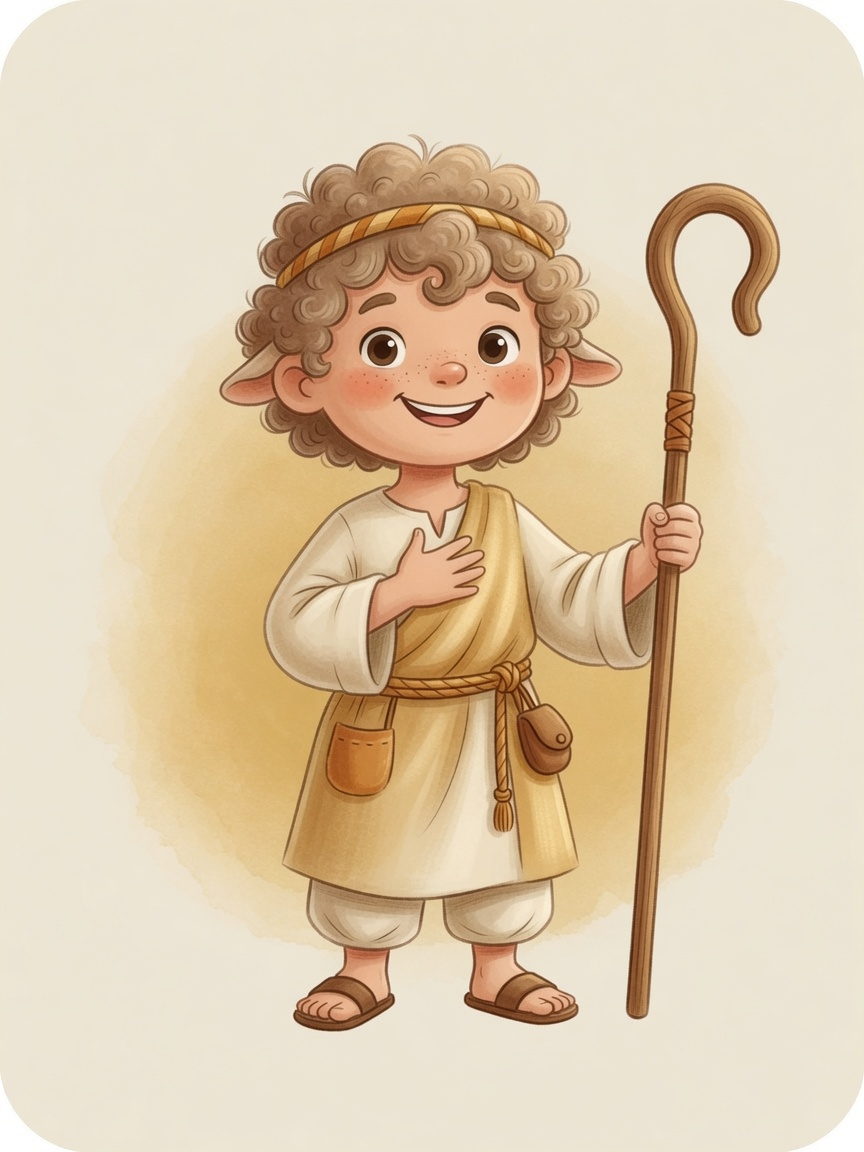
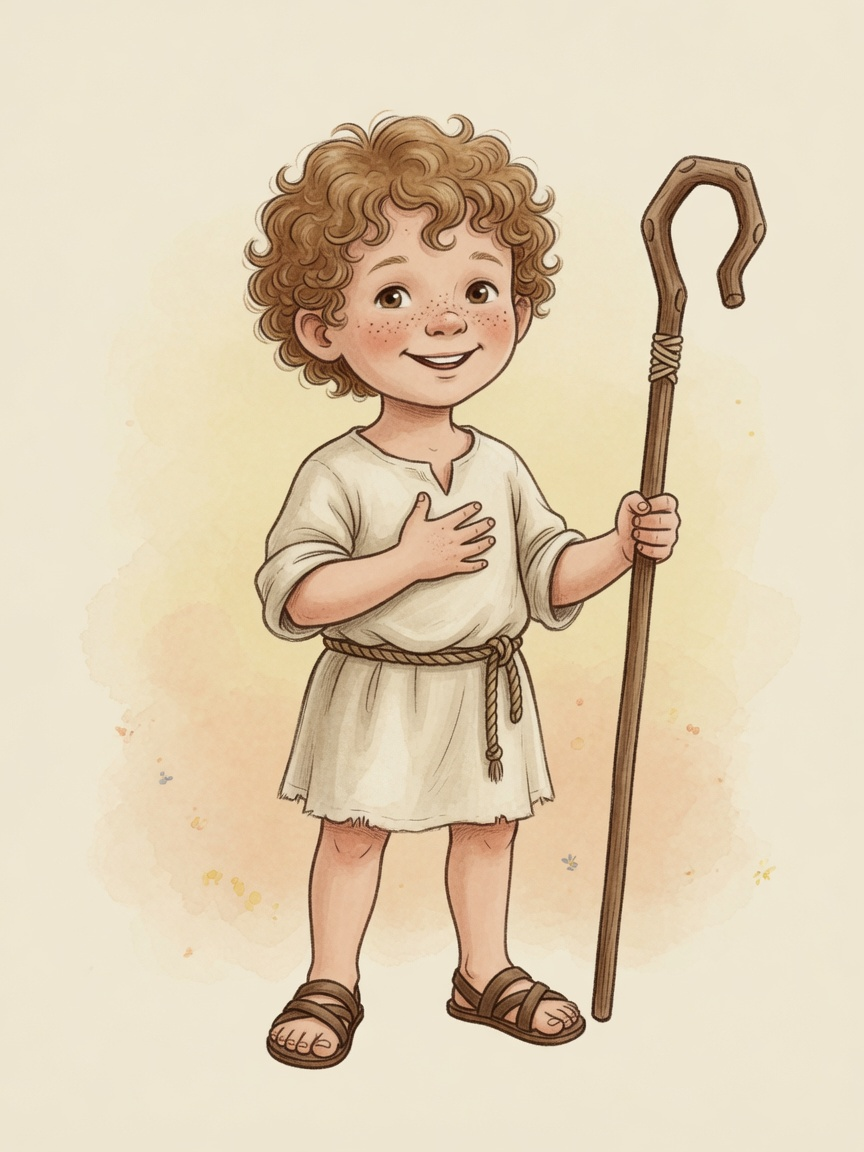
fix(kids): Little Shepherd human ears only — remove sheep ears
Previous illustrated mascot accidentally showed sheep ears plus human
ears. Replace with a clean human-boy character (curly hair, normal ears)
and refresh pose set + cache-bust ?v=20260810ears.

diff --git a/kids/kids-gentle-shepherd.js b/kids/kids-gentle-shepherd.js
@@ -375,21 +375,21 @@
   /* Absolute /kids/ paths so poses resolve from coloring.html, little-ones, and Kids Battle.
    * Premium illustrated PNG set (v20260810) — soft kids-book style, not stick SVGs. */
   var MASCOT_POSES = [
-    { src: '/kids/shepherd-mascot-welcome.png?v=20260810', label: 'Little Shepherd waves hello' },
-    { src: '/kids/shepherd-mascot-point.png?v=20260810', label: 'Little Shepherd points the way' },
-    { src: '/kids/shepherd-mascot-sheep.png?v=20260810', label: 'Little Shepherd with a small sheep' },
-    { src: '/kids/shepherd-mascot-cheer.png?v=20260810', label: 'Little Shepherd cheering for you' },
-    { src: '/kids/shepherd-mascot-sit.png?v=20260810', label: 'Little Shepherd sitting with a little lamb' },
-    { src: '/kids/shepherd-mascot-listen.png?v=20260810', label: 'Little Shepherd listens with you' },
-    { src: '/kids/shepherd-mascot-read.png?v=20260810', label: 'Little Shepherd with Scripture open' },
-    { src: '/kids/shepherd-mascot-pray.png?v=20260810', label: 'Little Shepherd prays with you' },
-    { src: '/kids/shepherd-mascot-proud.png?v=20260810', label: 'Little Shepherd is proud of you' },
-    { src: '/kids/shepherd-mascot-comfort.png?v=20260810', label: 'Little Shepherd is still with you' },
-    { src: '/kids/shepherd-mascot-wonder.png?v=20260810', label: 'Little Shepherd looks up in wonder' },
-    { src: '/kids/shepherd-mascot-laugh.png?v=20260810', label: 'Little Shepherd laughs with you' },
-    { src: '/kids/shepherd-mascot-point-excited.png?v=20260810', label: 'Little Shepherd points to your surprise story' },
-    { src: '/kids/shepherd-mascot-arms-hurray.png?v=20260810', label: 'Little Shepherd celebrates your surprise with quiet joy' },
-    { src: '/kids/shepherd-mascot-clap-soft.png?v=20260810', label: 'Little Shepherd is glad for your surprise pick' }
+    { src: '/kids/shepherd-mascot-welcome.png?v=20260810ears', label: 'Little Shepherd waves hello' },
+    { src: '/kids/shepherd-mascot-point.png?v=20260810ears', label: 'Little Shepherd points the way' },
+    { src: '/kids/shepherd-mascot-sheep.png?v=20260810ears', label: 'Little Shepherd with a small sheep' },
+    { src: '/kids/shepherd-mascot-cheer.png?v=20260810ears', label: 'Little Shepherd cheering for you' },
+    { src: '/kids/shepherd-mascot-sit.png?v=20260810ears', label: 'Little Shepherd sitting with a little lamb' },
+    { src: '/kids/shepherd-mascot-listen.png?v=20260810ears', label: 'Little Shepherd listens with you' },
+    { src: '/kids/shepherd-mascot-read.png?v=20260810ears', label: 'Little Shepherd with Scripture open' },
+    { src: '/kids/shepherd-mascot-pray.png?v=20260810ears', label: 'Little Shepherd prays with you' },
+    { src: '/kids/shepherd-mascot-proud.png?v=20260810ears', label: 'Little Shepherd is proud of you' },
+    { src: '/kids/shepherd-mascot-comfort.png?v=20260810ears', label: 'Little Shepherd is still with you' },
+    { src: '/kids/shepherd-mascot-wonder.png?v=20260810ears', label: 'Little Shepherd looks up in wonder' },
+    { src: '/kids/shepherd-mascot-laugh.png?v=20260810ears', label: 'Little Shepherd laughs with you' },
+    { src: '/kids/shepherd-mascot-point-excited.png?v=20260810ears', label: 'Little Shepherd points to your surprise story' },
+    { src: '/kids/shepherd-mascot-arms-hurray.png?v=20260810ears', label: 'Little Shepherd celebrates your surprise with quiet joy' },
+    { src: '/kids/shepherd-mascot-clap-soft.png?v=20260810ears', label: 'Little Shepherd is glad for your surprise pick' }
   ];
 
   var POSE_PROUD = 8;

diff --git a/kids/corner.html b/kids/corner.html
@@ -967,7 +967,7 @@
                     <div class="kids-buddy-mascot-row">
                       <button type="button" class="kids-mascot-tap" id="kids-mascot-tap" aria-label="Little Shepherd, tap to hear a new line">
                         <span class="kids-shepherd-hero-wrap">
-                          <img class="kids-shepherd-hero-img" id="kids-shepherd-hero" src="shepherd-mascot-welcome.png?v=20260810" width="200" height="220" alt="Little Shepherd waves hello" decoding="async" loading="lazy"/>
+                          <img class="kids-shepherd-hero-img" id="kids-shepherd-hero" src="shepherd-mascot-welcome.png?v=20260810ears" width="200" height="220" alt="Little Shepherd waves hello" decoding="async" loading="lazy"/>
                         </span>
                       </button>
                       <div class="kids-buddy-bubble kids-buddy-bubble--with-mascot" id="kids-little-shepherd-bubble" lang="en">

diff --git a/kids/good-night.html b/kids/good-night.html
@@ -72,7 +72,7 @@
             <div class="kids-buddy-mascot-row">
               <button type="button" class="kids-mascot-tap" id="kids-mascot-tap" aria-label="Little Shepherd, tap for a calm bedtime line">
                 <span class="kids-shepherd-hero-wrap">
-                  <img class="kids-shepherd-hero-img" id="kids-shepherd-hero" src="shepherd-mascot-welcome.png?v=20260810" width="112" height="124" alt="Little Shepherd" decoding="async" loading="lazy"/>
+                  <img class="kids-shepherd-hero-img" id="kids-shepherd-hero" src="shepherd-mascot-welcome.png?v=20260810ears" width="112" height="124" alt="Little Shepherd" decoding="async" loading="lazy"/>
                 </span>
               </button>
               <div class="kids-buddy-bubble kids-buddy-bubble--with-mascot" id="kids-little-shepherd-bubble" lang="en">

diff --git a/kids/all-stories.html b/kids/all-stories.html
@@ -185,7 +185,7 @@
           <div class="kids-buddy-mascot-row">
             <button type="button" class="kids-mascot-tap" id="kids-mascot-tap" aria-label="Little Shepherd, tap for a calm line">
               <span class="kids-shepherd-hero-wrap">
-                <img class="kids-shepherd-hero-img" id="kids-shepherd-hero" src="shepherd-mascot-welcome.png?v=20260810" width="112" height="124" alt="Little Shepherd" decoding="async" loading="lazy"/>
+                <img class="kids-shepherd-hero-img" id="kids-shepherd-hero" src="shepherd-mascot-welcome.png?v=20260810ears" width="112" height="124" alt="Little Shepherd" decoding="async" loading="lazy"/>
               </span>
             </button>
             <div class="kids-buddy-bubble kids-buddy-bubble--with-mascot" id="kids-little-shepherd-bubble" lang="en">

diff --git a/kids/kids-beta.html b/kids/kids-beta.html
@@ -56,7 +56,7 @@
           <div class="kids-buddy-mascot-row">
             <button type="button" class="kids-mascot-tap" id="kids-mascot-tap" aria-label="Little Shepherd, tap for a calm line">
               <span class="kids-shepherd-hero-wrap">
-                <img class="kids-shepherd-hero-img" id="kids-shepherd-hero" src="shepherd-mascot-welcome.png?v=20260810" width="112" height="124" alt="Little Shepherd" decoding="async" loading="lazy"/>
+                <img class="kids-shepherd-hero-img" id="kids-shepherd-hero" src="shepherd-mascot-welcome.png?v=20260810ears" width="112" height="124" alt="Little Shepherd" decoding="async" loading="lazy"/>
               </span>
             </button>
             <div class="kids-buddy-bubble kids-buddy-bubble--with-mascot" id="kids-little-shepherd-bubble" lang="en">

diff --git a/kids/my-pasture.html b/kids/my-pasture.html
@@ -61,7 +61,7 @@
           <div class="kids-buddy-mascot-row">
             <button type="button" class="kids-mascot-tap" id="kids-mascot-tap" aria-label="Little Shepherd, tap for a calm line">
               <span class="kids-shepherd-hero-wrap">
-                <img class="kids-shepherd-hero-img" id="kids-shepherd-hero" src="shepherd-mascot-welcome.png?v=20260810" width="112" height="124" alt="Little Shepherd" decoding="async" loading="lazy"/>
+                <img class="kids-shepherd-hero-img" id="kids-shepherd-hero" src="shepherd-mascot-welcome.png?v=20260810ears" width="112" height="124" alt="Little Shepherd" decoding="async" loading="lazy"/>
               </span>
             </button>
             <div class="kids-buddy-bubble kids-buddy-bubble--with-mascot" id="kids-little-shepherd-bubble" lang="en">

diff --git a/kids/parent.html b/kids/parent.html
@@ -59,7 +59,7 @@
           <div class="kids-buddy-mascot-row">
             <button type="button" class="kids-mascot-tap" id="kids-mascot-tap" aria-label="Little Shepherd, tap for a calm line">
               <span class="kids-shepherd-hero-wrap">
-                <img class="kids-shepherd-hero-img" id="kids-shepherd-hero" src="shepherd-mascot-welcome.png?v=20260810" width="112" height="124" alt="Little Shepherd" decoding="async" loading="lazy"/>
+                <img class="kids-shepherd-hero-img" id="kids-shepherd-hero" src="shepherd-mascot-welcome.png?v=20260810ears" width="112" height="124" alt="Little Shepherd" decoding="async" loading="lazy"/>
               </span>
             </button>
             <div class="kids-buddy-bubble kids-buddy-bubble--with-mascot" id="kids-little-shepherd-bubble" lang="en">

diff --git a/kids/prayer-activities.html b/kids/prayer-activities.html
@@ -89,7 +89,7 @@
           <div class="kids-buddy-mascot-row">
             <button type="button" class="kids-mascot-tap" id="kids-mascot-tap" aria-label="Little Shepherd, tap for a calm line">
               <span class="kids-shepherd-hero-wrap">
-                <img class="kids-shepherd-hero-img" id="kids-shepherd-hero" src="shepherd-mascot-welcome.png?v=20260810" width="112" height="124" alt="Little Shepherd" decoding="async" loading="lazy"/>
+                <img class="kids-shepherd-hero-img" id="kids-shepherd-hero" src="shepherd-mascot-welcome.png?v=20260810ears" width="112" height="124" alt="Little Shepherd" decoding="async" loading="lazy"/>
               </span>
             </button>
             <div class="kids-buddy-bubble kids-buddy-bubble--with-mascot" id="kids-little-shepherd-bubble" lang="en">

diff --git a/kids/index.html b/kids/index.html
@@ -95,7 +95,7 @@
     <main class="app-content" id="main-content" role="main">
       <div class="content-inner kids-battle-inner">
         <div class="kids-easy-home">
-          <img class="kids-easy-mascot" src="shepherd-mascot-welcome.png?v=20260810" width="120" height="132" alt="" decoding="async" loading="lazy">
+          <img class="kids-easy-mascot" src="shepherd-mascot-welcome.png?v=20260810ears" width="120" height="132" alt="" decoding="async" loading="lazy">
           <h1 id="kids-hub-play-h">Pick one</h1>
           <p class="kids-easy-lead">Story · Color · Play. That&rsquo;s it.</p>
 

diff --git a/kids/kids-corner.js b/kids/kids-corner.js
@@ -8907,7 +8907,7 @@
     fig.setAttribute('aria-hidden', 'true');
     var img = document.createElement('img');
     img.className = 'kids-story-ls-intro-mascot';
-    img.src = '/kids/shepherd-mascot-welcome.png?v=20260810';
+    img.src = '/kids/shepherd-mascot-welcome.png?v=20260810ears';
     img.alt = '';
     img.setAttribute('width', '72');
     img.setAttribute('height', '80');
